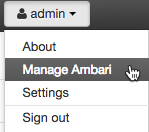
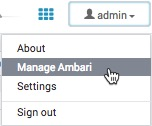
Prepping for HDP3.2

diff --git a/tutorials/hdf/getting-started-with-hdf-sandbox/tutorial.md b/tutorials/hdf/getting-started-with-hdf-sandbox/tutorial.md
@@ -1,13 +1,13 @@
 ---
 title: Learning the Ropes of the HDF Sandbox
-author: James Medel
+author: sandbox-team
 tutorial-id: 761
 experience: Beginner
 persona: Administrator
 source: Hortonworks
 use case: Single View
 technology: Apache Ambari, Apache Storm, Apache Superset, Apache NiFi, Schema Registry, Streaming Analytics Manager
-release: hdf-3.1.1
+release: hdf-3.2.0
 environment: Sandbox
 product: HDF
 series: HDF > Develop Data Flow & Streaming Applications > Hello World
@@ -23,21 +23,21 @@ By the end of this tutorial, you will be familiar with the data-in-motion tools 
 
 ## Prerequisites
 
--   Downloaded and Installed [HDF Sandbox](https://hortonworks.com/tutorial/sandbox-deployment-and-install-guide/)
+- Downloaded and deployed the [Hortonworks Data Flow (HDF)](https://hortonworks.com/downloads/#sandbox) Sandbox
 
 ## Outline
 
--   [Concepts](#concepts)
--   [Environment Setup](#environment-setup)
--   [Terminal Access](#terminal-access)
--   [Welcome Page](#welcome-page)
--   [Explore Ambari](#explore-ambari)
--   [Further Reading](#further-reading)
--   [Appendix A: Reference Sheet](#appendix-a-reference-sheet)
-    -   [Login Credentials](#login-credentials)
-    -   [Sandbox Version](#sandbox-version)
-    -   [Admin Password Reset](#admin-password-reset)
--   [Appendix B: Troubleshoot](#appendix-b-troubleshoot)
+- [Concepts](#concepts)
+- [Environment Setup](#environment-setup)
+- [Terminal Access](#terminal-access)
+- [Welcome Page](#welcome-page)
+- [Explore Ambari](#explore-ambari)
+- [Further Reading](#further-reading)
+- [Appendix A: Reference Sheet](#appendix-a-reference-sheet)
+  - [Login Credentials](#login-credentials)
+  - [Sandbox Version](#sandbox-version)
+  - [Admin Password Reset](#admin-password-reset)
+- [Appendix B: Troubleshoot](#appendix-b-troubleshoot)
 
 ## Concepts
 
@@ -48,7 +48,7 @@ The Sandbox is a straightforward, pre-configured, learning environment that cont
 ### HDF Standalone Sandbox
 
 The HDF Standalone Sandbox Architecture comes with the following Big Data Tools:
-Zookeeper, Storm, Kafka, NiFi, NiFi Registry, Schema Registry and Stream Analytics Manager (SAM).
+Zookeeper, Storm, Kafka, NiFi, NiFi Registry, Schema Registry, Streams Messaging Manager (SMM), and Stream Analytics Manager (SAM).
 
 ## Environment setup
 
@@ -58,23 +58,23 @@ This is the administrative section to get started with the Hortonworks Sandbox e
 
 Once the Sandbox VirtualBox VM is installed, it attaches to a virtual network. There are 8 different network modes, but the default network your sandbox will attach to is NAT. We will cover relevant networks for our tutorial use cases: NAT and Bridged Adapter.
 
-**Network Address Translation (NAT)**
+### Network Address Translation (NAT)
 
-By default, the VirtualBox VM attaches to Network Address Translation (NAT) network mode. The guest's IP address by default translates over to the host's IP address. NAT allows for the guest system to connect to external devices on external networks, but external devices cannot access the guest system. Alternatively, VirtualBox can make selected services on the guest reachable to the outside world by port forwarding. VirtualBox listens to certain ports on the host, then resends packets that arrive at those ports to the guest on the same port or different port.
+By default, the VirtualBox VM attaches to Network Address Translation (NAT) network mode. The guest's IP address by default translates over to the host's IP address. NAT allows for the guest system to connect to external devices on external networks, but external devices cannot access the guest system. Alternatively, VirtualBox can make selected services on the guest reachable to the outside world by port forwarding. VirtualBox listens to certain ports on the host, then re-sends packets that arrive at those ports to the guest on the same port or different port.
 
 We are forwarding all incoming traffic from a specific host interface to the guest in our sandbox is by specifying an IP of that host like the following:
 
 ~~~bash
-VBoxManage modifyvm "Hortonworks Sandbox HDF 3.1 Standalone" --natpf1 "Sandbox Splash Page,tcp,127.0.0.1,1080,,1080"
+VBoxManage modifyvm "Hortonworks Sandbox HDF 3.2.0 Standalone" --natpf1 "Sandbox Splash Page,tcp,127.0.0.1,1080,,1080"
 .
 .
 .
-VBoxManage modifyvm "Hortonworks Sandbox HDF 3.1 Standalone" --natpf1 "Sandbox Host SSH,tcp,127.0.0.1,2122,,22"
+VBoxManage modifyvm "Hortonworks Sandbox HDF 3.2.0 Standalone" --natpf1 "Sandbox Host SSH,tcp,127.0.0.1,2122,,22"
 ~~~
 
 You can find the set network by opening the VM **settings** and then select the **network** tab.
 
-**Bridged Networking**
+### Bridged Networking
 
 In this mode, the guest receives direct access to the network, which the host has been connected. The router assigns an IP address to the guest. On that network, instead of there being just the host IP address visible, now the guest IP address is visible too. Thus, external devices, such as MiNiFi running on a Raspberry Pi, are able to connect to the guest via it's IP address.
 
@@ -96,13 +96,13 @@ Once the Sandbox VM or container is installed, it settles to the host of your en
 
 If you're using **VirtualBox** or **VMWare**, you can confirm the IP address by waiting for the installation to complete and confirmation screen will tell you the IP address your sandbox resolves to. For example:
 
+Guest VM Welcome Window for NAT Sandbox
+
 ![Host Address of Sandbox Environment](assets/images/guest_vm_NAT_mode_hdp265_83.jpg)
 
-> **Note:** Guest VM Welcome Window for NAT Sandbox
+Guest VM Welcome Window for BRIDGED Sandbox
 
 ![Host Address of Sandbox Environment](assets/images/guest_vm_BRIDGED_mode_welcome_screen.jpg)
-
-> **Note:** Guest VM Welcome Window for BRIDGED Sandbox
 
 > **Note:** If you're using Azure, your IP address is located on the dashboard, refer to [**Set a Static IP**](https://hortonworks.com/tutorial/sandbox-deployment-and-install-guide/section/4/#set-a-static-ip)
 
@@ -112,46 +112,61 @@ Mac, Linux and Windows all have a hosts file. This file once configured enables 
 
 **Mac users**:
 
--   ```echo '{IP-Address} sandbox.hortonworks.com sandbox-hdp.hortonworks.com sandbox-hdf.hortonworks.com' | sudo tee -a /private/etc/hosts```
+```bash
+echo '{IP-Address} sandbox.hortonworks.com sandbox-hdp.hortonworks.com sandbox-hdf.hortonworks.com' | sudo tee -a /private/etc/hosts
+```
 
 **Linux users**:
 
--   ```echo '{IP-Address} sandbox.hortonworks.com sandbox-hdp.hortonworks.com sandbox-hdf.hortonworks.com' | sudo tee -a /etc/hosts```
+```bash
+echo '{IP-Address} sandbox.hortonworks.com sandbox-hdp.hortonworks.com sandbox-hdf.hortonworks.com' | sudo tee -a /etc/hosts
+```
 
 **Windows users**:
 
--   Run Notepad as **administrator**.
--   Open **hosts** file located in: ```c:\Windows\System32\drivers\etc\hosts```
--   Add ```{IP-Address}   localhost   sandbox.hortonworks.com   sandbox-hdp.hortonworks.com   sandbox-hdf.hortonworks.com```
--   Save the file
+- Run Notepad as **administrator**.
+- Open **hosts** file located in: ```c:\Windows\System32\drivers\etc\hosts```
+- Add:
 
-> IMPORTANT: Replace **{IP-Address}** with [Sandbox IP Address](#learn-the-ip-address-of-your-sandbox)
+ ```bash
+ {IP-Address}   localhost   sandbox.hortonworks.com   sandbox-hdp.hortonworks.com   sandbox-hdf.hortonworks.com
+ ```
+
+- Save the file
+
+> IMPORTANT: Replace **{IP-Address}** with [Sandbox IP Address](#determine-ip-address-of-your-sandbox)
 
 ## Terminal Access
 
- Refer to [Login Credentials](#login-credentials) for list of users and passwords. You can also login using **root**, using password **hadoop**, which may require you to change the password - remember it!
+ Refer to [Login Credentials](#login-credentials) for list of users and passwords. You can also login using **root**, using password **hadoop**, which may require you to change the password - remember the password you set!
 
  If you login using credentials other than **root**, you may be required to use **sudo** before the command. For example: ```sudo ambari-server status```.
 
-#### Secure Shell Method:
+**Secure Shell Method:**
 
 Open your terminal (mac/linux) or Git Bash (Windows). Type the following command to access the Sandbox through **ssh user@hostname -p port**. For example: ```ssh root@sandbox-hdf.hortonworks.com -p 2202```
 
 ![Mac Terminal SSH](assets/images/secure_shell_sandbox_hdf.jpg)
 
-#### Shell Web Client Method:
+**Shell Web Client Method:**
 
-The **shell web client** is also known as **shell-in-a-box**. It's an easy way to issue shell commands without needing to install additional software. It uses **port 4200**, for example:  [sandbox-hdf.hortonworks.com:4200](http://sandbox-hdf.hortonworks.com:4200)
+The **_shell web client_** is also known as **_shell-in-a-box_**. It's an easy way to issue shell commands without needing to install additional software. It uses **port 4200**, for example:  [sandbox-hdf.hortonworks.com:4200](http://sandbox-hdf.hortonworks.com:4200)
 
-#### Send Data Between Sandbox and Local Machine
+**Send Data Between Sandbox and Local Machine**
 
 Using the terminal of your choice, you can transfer files to/from sandbox and local machine.
 
--   Transfer file from local machine to sandbox:
-    -   ```scp -P 2202 <local_directory_file> root@sandbox-hdf.hortonworks.com:<sandbox_directory_file>```
+- Transfer file from local machine to sandbox:
 
--   Transfer file from sandbox to local machine:
-    -   ```scp -P 2202 root@sandbox-hdf.hortonworks.com:<sandbox_directory_file> <local_directory_file> ```
+```bash
+scp -P 2202 <local_directory_file> root@sandbox-hdf.hortonworks.com:<sandbox_directory_file>
+```
+
+- Transfer file from sandbox to local machine:
+
+```bash
+scp -P 2202 root@sandbox-hdf.hortonworks.com:<sandbox_directory_file> <local_directory_file>
+```
 
 Do you notice the difference between the two commands?
 
@@ -163,7 +178,7 @@ The Sandbox Welcome Page is also known as the **Splash Page**. It runs on port n
 
 It looks like this:
 
-![hdf_splash_screen_step1](assets/images/hdf_splash_screen_step1.jpg)
+![hdf_splash_screen_step1](assets/images/hdf-splash.jpg)
 
 **Launch Dashboard** opens two browser windows - Ambari interface and beginner tutorial. You should login to Ambari using the username and password based on the tutorial requirements. Most of the tutorials use **admin**. Refer to [Login Credentials](#login-credentials) for list of users and passwords.
 
@@ -179,17 +194,19 @@ It looks like this:
 
 The following screen will be displayed:
 
-![Lab0_3](assets/images/ambari_welcome_learning_the_ropes_sandbox.jpg)
+![manage-ambari-ui](assets/images/manage-ambari-ui.jpg)
 
-1.  “**Operate Your Cluster**” will take you to the Ambari Dashboard which is the primary UI for Hadoop Operators
-2.  “**Manage Users + Groups**” allows you to add & remove Ambari users and groups
-3.  “**Clusters**” allows you to grant permission to Ambari users and groups
-4.  “**Ambari User Views**” list the set of Ambari Users views that are part of the cluster
-5.  “**Deploy Views**” provides administration for adding and removing Ambari User Views
+1. “**Ambari Dashboard**” will take you to the Ambari Dashboard which is the primary UI for Hadoop Operators
+2. “**Cluster Management**” is where you will find _Cluster Information_, _Versions_, and _Remote Clusters_
+   - **Cluster Information** allows you to review your cluster name as well as inspect and export the cluster blueprint
+   - **Versions** shows the version of HDF you are using as well as the version of every component available in the cluster
+   - **Remote Clusters** allows you to connect to remote clusters given that you have the appropriate URL and username, password
+3. “**Users**” is where you can add, remove or modify users
+4. “**Views**” list the set of Ambari Users views that are part of the cluster
 
--   Click on **Go to Dashboard** and you should see a similar screen:
+- Click on **Dashboard** and you should see a similar screen:
 
-![Lab0_4](assets/images/Lab0_4.png)
+![ambari-dash](assets/images/ambari-dash.jpg)
 
 Explorer by click on:
 
@@ -197,15 +214,14 @@ Explorer by click on:
 
 and then on:
 
-2\.  **Dashboard**, **Services**, **Hosts**, **Alerts**, **Admin** and User Views icon (represented by 3×3 matrix ) to become familiar with the Ambari resources available to you.
-
+2\.  **Hosts**, **Alerts**, **Admin**
 ## Summary
 
 Congratulations! Now you know about the different features available in the HDF sandbox. You can use these HDF components to begin building your own applications to solve data-in-motion problems. If you want to learn more about HDF, check out the documentation in the Further Reading section below. If you want to explore more in depth how you can use the HDF tools to build applications, visit the Hortonworks HDF Sandbox tutorials.
 
 ## Further Reading
 
-- [HDF Documentation](https://docs.hortonworks.com/HDPDocuments/HDF3/HDF-3.1.1/index.html)
+- [HDF Documentation](https://docs.hortonworks.com/HDPDocuments/HDF3/HDF-3.2.0/index.html)
 - [HDF Tutorial Track](https://hortonworks.com/tutorials/?tab=product-hdf)
 
 ## Appendix A: Sandbox Reference Sheet
@@ -217,6 +233,7 @@ The HDF sandbox cheat sheet is a reference of common knowledge and tasks often d
 | User | Password |
 |:------:|----------:|
 | admin | refer to [Admin Password Reset](#admin-password-reset) |
+| raj_ops | raj_ops |
 
 **OS Level Authorization**
 
@@ -234,7 +251,7 @@ The HDF sandbox cheat sheet is a reference of common knowledge and tasks often d
 
 When you run into an issue, one of the first things someone will ask is "_what sandbox version are you using_"? To get this information:
 
-Login using [shell web client](http://sandbox-hdp.hortonworks.com:4200) and execute: ```sandbox-version```. The output should look something like:
+Login using [Web-Shell-Client](http://sandbox-hdf.hortonworks.com:4200) and execute: ```sandbox-version```. The output should look something like:
 
 ![sandbox-version](assets/images/sandbox-version.jpg)
 
@@ -245,14 +262,18 @@ Login using [shell web client](http://sandbox-hdp.hortonworks.com:4200) and exec
 Due to possibility of passwords being vulnerable to being hacked, we recommend
 you change your Ambari admin password to be unique.
 
-1.  Open [shell web client](http://sandbox-hdf.hortonworks.com:4200) (aka shell-in-a-box):
+1. Open [Web-Shell-Client](http://sandbox-hdf.hortonworks.com:4200) (aka shell-in-a-box):
 
-2.  The login using credentials: **root** / **hadoop**
+2. The login using credentials: **root** / **hadoop**
 
-3.  Type the following commands: ```ambari-admin-password-reset```
+3. Type the following commands: 
+
+```bash
+ambari-admin-password-reset
+```
 
 > IMPORTANT: The first time you login as **root**, you may be required to change the password - remember it!
 
 ## Appendix B: Troubleshoot
 
--   [Hortonworks Community Connection](https://hortonworks.com/community/forums/) (HCC) is a good resource to find answers to problems you may encounter during your Hadoop journey.
+- [Hortonworks Community Connection](https://hortonworks.com/community/forums/) (HCC) is a good resource to find answers to problems you may encounter during your Hadoop journey.
